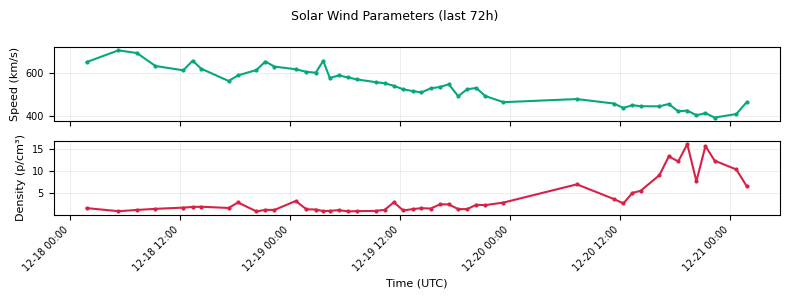
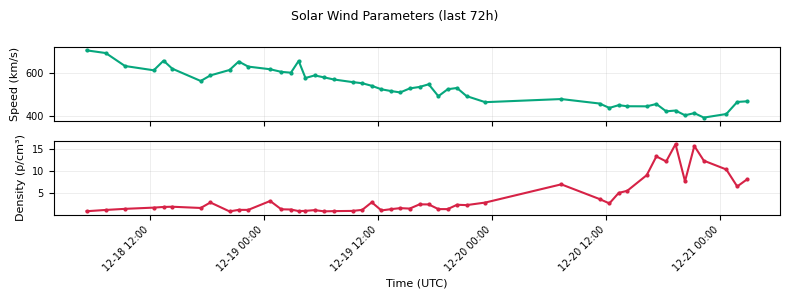
Vault Narrator: Auto-update 2025-12-21 03:33 UTC

diff --git a/LATEST_VAULT_STATUS.md b/LATEST_VAULT_STATUS.md
@@ -1,6 +1,6 @@
 # 🔐 VAULT STATUS REPORT
 
-**Generated:** 2025-12-21 02:43 UTC  
+**Generated:** 2025-12-21 03:33 UTC  
 **Data Source:** `data/cme_heartbeat_log_2025_12.csv`
 
 ---
@@ -11,14 +11,14 @@
 **Last Lock Timestamp:** 2025-12-20 04:20:00 UTC  
 
 **Latest Solar Wind Conditions:**  
-- Density: 6.49 p/cm³  
-- Speed: 463.8 km/s  
+- Density: 8.08 p/cm³  
+- Speed: 466.7 km/s  
 
 ---
 
 ## 🌞 NOAA SPACE WEATHER SUMMARIES
 
-- [SRS Report](reports/latest_srs.md) (fetched: 2025-12-21 02:42 UTC)  
+- [SRS Report](reports/latest_srs.md) (fetched: 2025-12-21 03:33 UTC)  
 - F10.7 Report: *not available*  
 
 ---
@@ -39,7 +39,6 @@
 
 | Time (UTC)          | χ Amplitude | Density (p/cm³) | Speed (km/s) | χ Status |
 |---------------------|-------------|-----------------|--------------|----------|
-| 2025-12-19 23:17:00 | 0.1312 | 2.82 | 462.8 | — |
 | 2025-12-20 00:36:00 | 0.1500 | — | — | ✅ LOCK |
 | 2025-12-20 01:48:00 | 0.1500 | — | — | ✅ LOCK |
 | 2025-12-20 02:44:00 | 0.1500 | — | — | ✅ LOCK |
@@ -59,6 +58,7 @@
 | 2025-12-20 22:19:00 | 0.1086 | 12.36 | 391.4 | — |
 | 2025-12-21 00:41:00 | 0.1083 | 10.36 | 407.9 | — |
 | 2025-12-21 01:50:00 | 0.1313 | 6.49 | 463.8 | — |
+| 2025-12-21 02:51:00 | 0.1328 | 8.08 | 466.7 | — |
 
 ---
 
